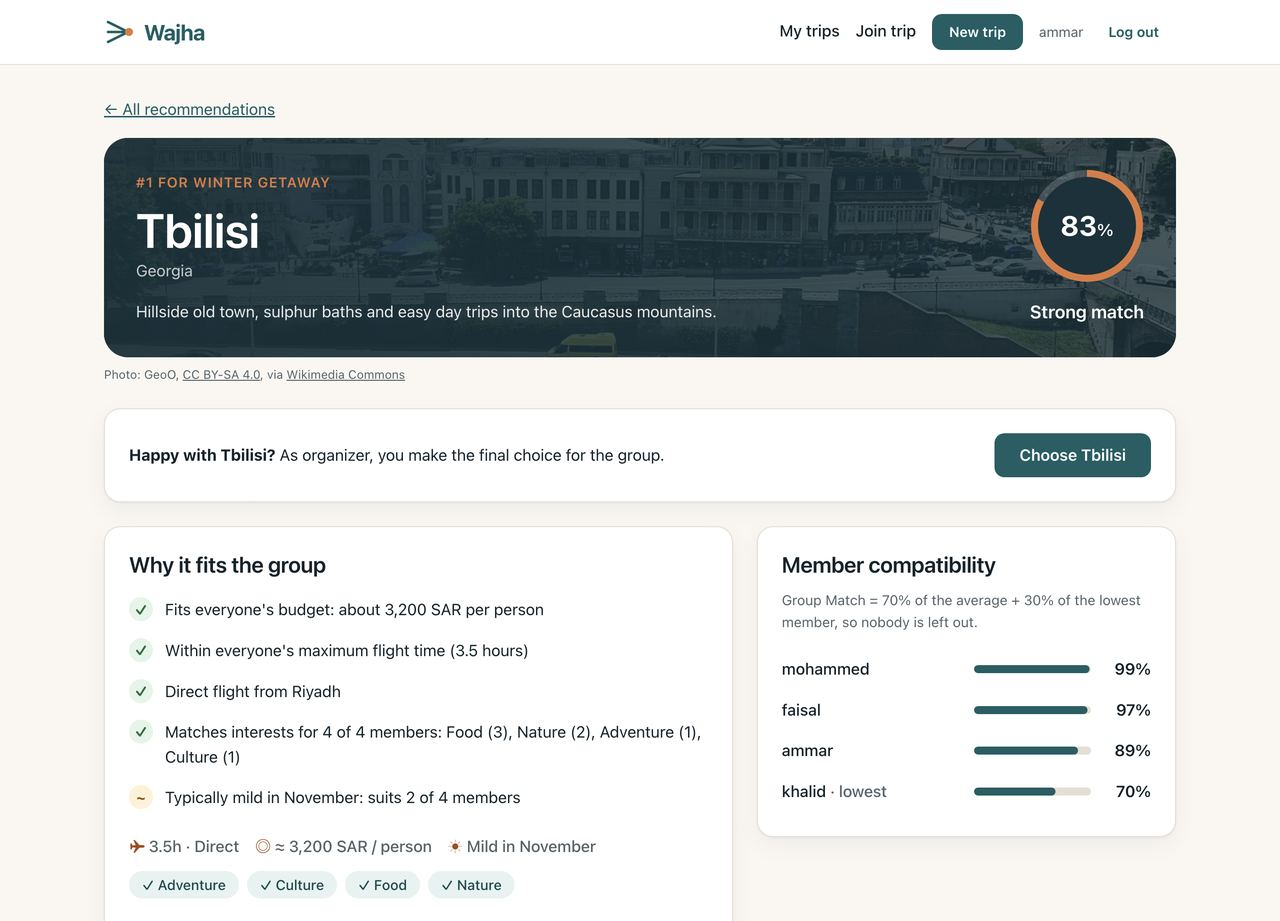
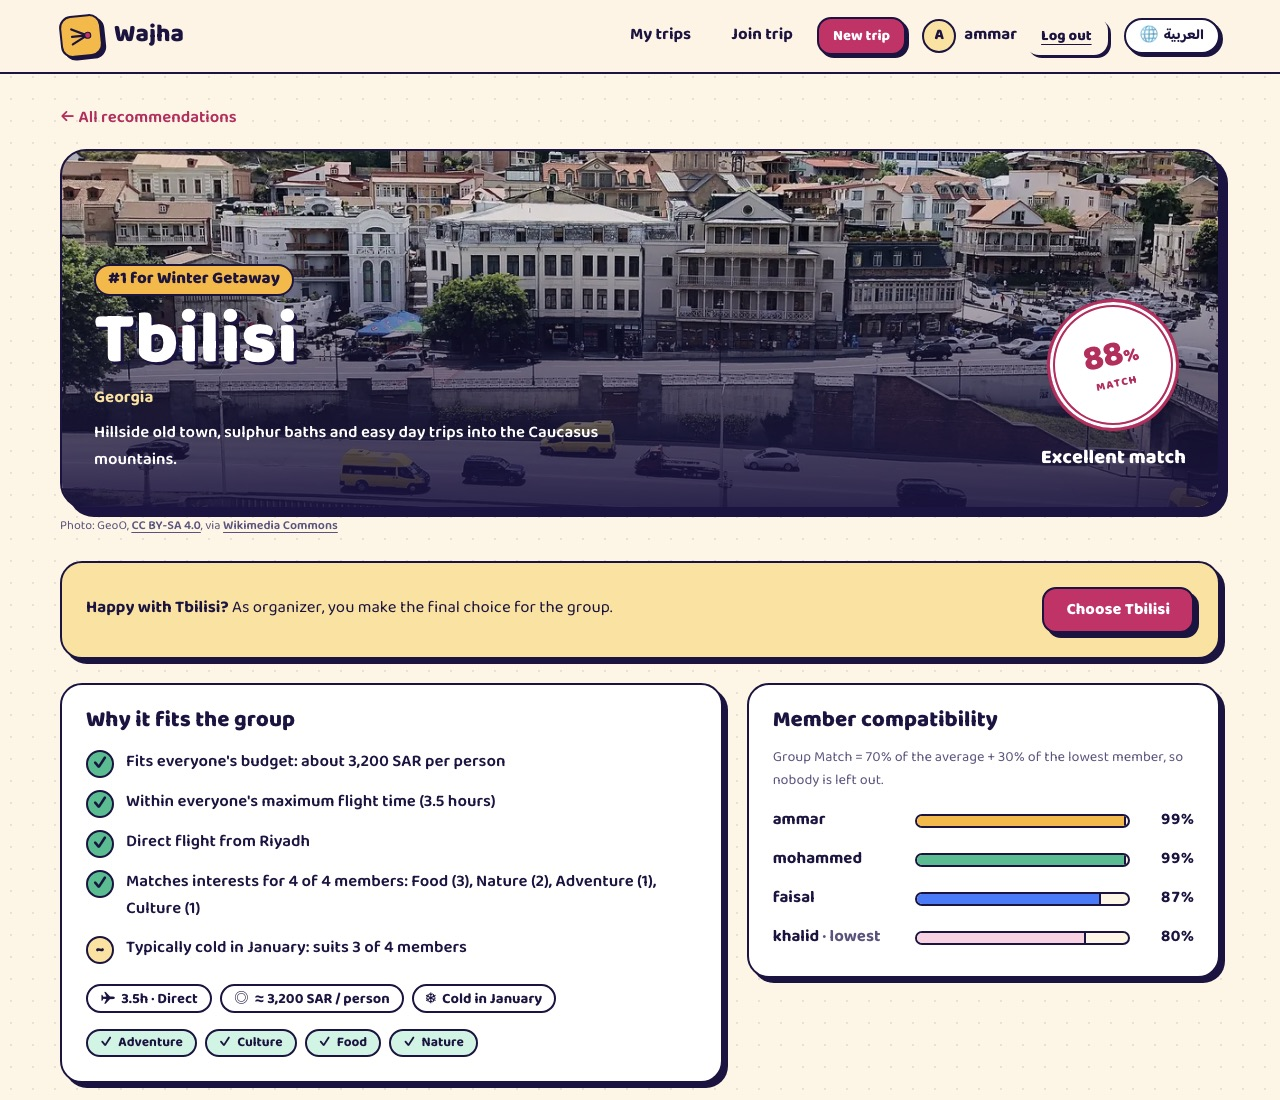
Update verification record, screenshots and README
Re-ran all acceptance scenarios after the redesign and new features (35 of 35
pass), added scenarios for the Arabic version, group vote, shared dates,
search and pagination, verified a fresh checkout (266 tests pass), refreshed
the screenshots and listed the new known limitations.

diff --git a/docs/verification.md b/docs/verification.md
@@ -5,7 +5,7 @@ This record lists the acceptance scenarios for Wajha, what was expected, what ac
 ## How these checks were run
 
 - **Date:** 9 October 2026
-- **Version:** the `main` branch at the time of writing (Python 3.14.7, Django 6.1.2, SQLite)
+- **Version:** the `main` branch at the time of writing (Python 3.14.7, Django 6.1.2, SQLite). All scenarios were run again after the redesign, the Arabic version, the group vote, shared dates and search were added.
 - **Data:** a fresh database loaded with `python manage.py load_demo_data` (fictitious accounts and trips; see the README)
 - **Method:** each scenario was executed through the application's real URLs, forms and views with Django's test client, using the demo accounts. Every run happened inside a database transaction that was rolled back afterwards, so the demo data stayed unchanged.
 - **Manual re-check:** the last column is for a person to repeat the scenario in a browser before submission and initial it.
@@ -27,7 +27,7 @@ This record lists the acceptance scenarios for Wajha, what was expected, what ac
 | V11 | Ammar filters My Trips by each status | All 5 · Planning 3 · Decided 1 · Cancelled 1, newest first | All 5 · Planning 3 · Decided 1 · Cancelled 1 | Pass | |
 | V12 | Sara filters My Trips by Cancelled (she has none) | Empty state "No trips here" with "Show all trips" | Empty state shown | Pass | |
 | V13 | Organizer generates for Spring Break while Khalid hasn't submitted | Refused with an explanation; no recommendations saved | Message shown; 0 saved | Pass | |
-| V14 | Open recommendations for Weekend on a Budget (budgets 1,500 and 1,800 SAR) | "No destination fits everyone", with reasons per destination and no member names | Empty state shown; e.g. "Cairo ≈ 2,150 SAR — Over budget for 2 members"; no names in the reasons | Pass | |
+| V14 | Open recommendations for Weekend on a Budget (budgets 1,500 and 1,800 SAR) | "No destination fits everyone", with reasons per destination and no member names | Empty state shown; e.g. "Cairo ≈ 2,150 SAR — Over budget for 2 members · Flight too long for 1 member"; no names in the reasons | Pass | |
 | V15 | Winter Getaway group summary (**aggregation**) | Average budget (4500 + 4000 + 5000 + 3800) / 4 = **4,325 SAR** · lowest **3,800** · shortest max flight **5 h** · Food 3, Nature 2 | 4,325 · 3,800 · 5 h · Food 3, Nature 2 | Pass | |
 | V16 | My Trips counts per trip (**annotation**) | Winter Getaway "4 of 4 ready" · Spring Break "2 of 3 ready" | Both shown correctly | Pass | |
 | V17 | Winter Getaway: Tbilisi's saved score (hand calculation below) | Rank 1 · Group Match **87.7** · lowest member **79.9** · **3,200 SAR** per person | Rank 1 · 87.7 · 79.9 · 3,200 | Pass | |
@@ -35,13 +35,22 @@ This record lists the acceptance scenarios for Wajha, what was expected, what ac
 | V19 | Organizer removes the waiting member Khalid from Spring Break (deletion with dependent records) | Membership deleted; group becomes 2 of 2 ready and can generate; Khalid gets 404 | Membership gone; can generate; Khalid sees 404 | Pass | |
 | V20 | Cancelled Eid Trip keeps its records | Trip and both memberships still exist; status Cancelled | Cancelled; 2 members kept | Pass | |
 | V21 | Sara edits her preferences on the decided Summer Escape | Refused; budget unchanged | Budget stayed 6,000 | Pass | |
-| V22 | Organizer adds a night to Winter Getaway | Recommendations cleared because costs changed | 0 recommendations left | Pass | |
+| V22 | Organizer adds a night to Winter Getaway (which has recommendations and 3 votes) | Recommendations and their votes cleared because costs changed | 0 recommendations and 0 votes left | Pass | |
 | V23 | Spring Break summary with only 2 submissions (privacy) | Budget figures hidden, with an explanation | Explanation shown; "5,500" not visible | Pass | |
 | V24 | Open a trip that doesn't exist, with `DEBUG=False` | Custom 404 page | 404 with the Wajha "We couldn't find that page" page | Pass | |
-| V25 | **Mobile and desktop layout** | Every page usable at phone width with no horizontal scrolling; navigation folds into a menu | Checked with headless Chrome at 390 px and 1280 px: landing, register/login, My Trips, create/join, Trip Room (planning, ready, decided), preferences, recommendations, explanation, confirmation pages, 404 | Pass | |
-| V26 | **Fresh checkout** | Clone → virtual environment → `pip install -r requirements.txt` → copy `.env.example` → `migrate` → `load_demo_data` → all tests pass | Done from a clean clone after each development phase; latest run passed | Pass | |
+| V25 | **Mobile and desktop layout** | Every page usable at phone width with no horizontal scrolling; navigation folds into a menu | Checked with headless Chrome at 390 px and 1280 px in English and Arabic: landing, register/login, My Trips (search, filters, pagination), create/join, Trip Room (planning, ready, decided), preferences, recommendations with the group vote, explanation, shared dates, confirmation pages, 404. Screenshots in `docs/img/` | Pass | |
+| V26 | **Fresh checkout** | Clone → virtual environment → `pip install -r requirements.txt` → copy `.env.example` → `migrate` → `load_demo_data` → all tests pass | Clean clone into an empty folder, new virtual environment, `pip install`, `.env` from `.env.example` with a new secret key, `migrate` (all 4 trips migrations), `load_demo_data`, `python manage.py test`: **266 tests passed**; translations and fonts present in the clone | Pass | |
+| V27 | **Arabic version:** open `/ar/`, the Trip Room and Weekend on a Budget's recommendations in Arabic | Right-to-left layout, Arabic text, the language switch links to the same page in English, plural forms correct | `dir="rtl"`; "وين نروح؟"; switch links to `/trips/<id>/`; exclusion reason "تتجاوز ميزانية عضوين" (dual form for 2 members) | Pass | |
+| V28 | **Group vote (annotation):** Winter Getaway has 3 demo votes; Ammar votes for Tbilisi | Vote counts per top-3 recommendation [2, 1, 0] → [3, 1, 0]; 4 of 4 voted; Tbilisi leading; no voter names shown | [2, 1, 0] → [3, 1, 0]; 4 of 4; Tbilisi leading; only totals on the page | Pass | |
+| V29 | Vote for 4th place; a non-member votes; a member votes on the decided Summer Escape | Refused with a message; 404 for the non-member; "Voting is closed" | All refused as expected; no vote saved | Pass | |
+| V30 | Organizer regenerates Winter Getaway's recommendations | Old votes are cleared with the old ranking | 5 recommendations regenerated; 0 votes left | Pass | |
+| V31 | **Shared dates:** Spring Break, where all 3 members shared free dates | Current dates (25–30 Mar) suit 2 of 3; best suggestion 27 Mar – 1 Apr, everyone free; members don't see "Use these dates" | 2 of 3; 27 Mar – 1 Apr, everyone free; button only for the organizer | Pass | |
+| V32 | Add free dates with the end before the start, a past start, a range over 90 days and a range ending more than a year ahead | Each refused with a message; nothing saved | All 4 refused; no range saved | Pass | |
+| V33 | Sara (member) tries to apply the suggestion; Ammar (organizer) applies it | 403 for the member; trip moves to 27 Mar – 1 Apr keeping 5 nights | 403; 27 Mar – 1 Apr 2027, 5 nights | Pass | |
+| V34 | **Search** My Trips for "winter", "sarajevo", "سراييفو" (Arabic) and "zzz" | Matching trips only; Arabic city name finds the English record; no results shows an empty state | Winter Getaway; Summer Escape; Summer Escape; "No trips match" with "Clear search" | Pass | |
+| V35 | **Pagination:** Ammar has 11 trips | 9 on page 1, 2 on page 2; invalid page numbers fall back safely | 9 and 2; `?page=abc` shows page 1, `?page=99` the last page | Pass | |
 
-**Result: 26 of 26 scenarios passed.**
+**Result: 35 of 35 scenarios passed.**
 
 ## Hand calculation for V17 (Tbilisi, Winter Getaway)
 
@@ -61,21 +70,25 @@ The trip departs from Riyadh, 14–18 January 2027 (4 nights). January is in the
 
 ## Automated tests
 
-`python manage.py test` runs **206 tests**; all passed on the latest run.
+`python manage.py test` runs **266 tests**; all passed on the latest run.
 
 | File | Tests | What they protect |
 |---|---|---|
 | `trips/tests/test_matching.py` | 32 | Cost, each hard constraint (including limits exactly at the edge), each factor score, group formula, tie-breaks, ranking, all with hand-calculated values |
 | `trips/tests/test_trip_management.py` | 35 | Finalize, cancel, edit and remove member: rules, permissions, locking after a decision, deletion with dependent records |
 | `trips/tests/test_recommendations.py` | 30 | Generation, saved scores matching the engine, invalidation when the group changes, page states, privacy of exclusions |
+| `trips/tests/test_dates.py` | 24 | Shared dates: the pure suggestion function with hand-checked windows, date validation, own-range deletion only, organizer-only apply, recommendations cleared on new dates |
 | `trips/tests/test_preferences.py` | 23 | Preference validation, own-record only, different preferences per trip, readiness rules |
+| `trips/tests/test_voting.py` | 17 | One vote per member, top 3 only, voting closes after a decision, votes cleared with recommendations, annotated counts, ties, page shows totals not names |
 | `trips/tests/test_views.py` | 17 | Create trip validation, access (404/403), My Trips relationship query and member count |
 | `trips/tests/test_join.py` | 15 | Invite code normalisation and every join rule |
 | `trips/tests/test_reporting.py` | 14 | Group summary aggregation, interest vote annotation, status filter and per-trip counts |
+| `trips/tests/test_search.py` | 10 | My Trips search by name and destination (also in Arabic), counts follow the search, escaped empty state, pagination and links that keep the filter |
 | `trips/tests/test_models.py` | 11 | Database constraints: dates, status vs destination, unique membership, invite codes |
 | `destinations/tests.py` | 11 | Catalog loader, catalog constraints, climate periods, bundled photos |
+| `trips/tests/test_i18n.py` | 8 | Arabic version: right-to-left, translated pages, URL prefixes, language switch, Arabic plurals and number formats |
 | `trips/tests/test_pages.py` | 5 | Landing, credits, custom 404 and 403 pages |
-| `trips/tests/test_demo.py` | 5 | Demo data states, repeat runs, protection of real accounts |
+| `trips/tests/test_demo.py` | 6 | Demo data states (including votes and shared dates), repeat runs, protection of real accounts |
 | `accounts/tests.py` | 8 | Registration (hashed password, duplicates, required email), login, logout by POST |
 
 ## Known limitations
@@ -88,3 +101,5 @@ The trip departs from Riyadh, 14–18 January 2027 (4 nights). January is in the
 6. **Custom error pages only appear with `DEBUG=False`.** In development (`DEBUG=True`) Django shows its technical pages instead.
 7. **The 8-member limit relies on a row lock** (`select_for_update`). SQLite ignores row locks, but it only allows one write at a time, so the limit still holds for this local setup.
 8. **User-entered text isn't translated.** The interface and catalog are available in English and Arabic, but trip names and usernames appear exactly as typed in both versions.
+9. **Votes are advisory.** The organizer can choose any current recommendation, including one with fewer votes; the vote shows what the group prefers but doesn't decide.
+10. **Date suggestions only know what members shared.** A member who hasn't added free dates counts as not free, and suggestions don't check flight schedules or prices for specific days (prices remain the illustrative estimates).

diff --git a/README.md b/README.md
@@ -6,6 +6,10 @@ Wajha is a Django web application that helps a group of friends in Saudi Arabia 
 
 ![Recommended destinations](docs/img/recommendations.jpg)
 
+| Trip Room | Group vote | Shared dates | Arabic version |
+|---|---|---|---|
+| ![Trip Room](docs/img/trip-room.jpg) | ![Group vote](docs/img/vote.jpg) | ![Shared dates](docs/img/dates.jpg) | ![Arabic Trip Room](docs/img/arabic.jpg) |
+
 ## The problem and the audience
 
 **Target users:** groups of 2–8 friends departing from Saudi Arabia (Riyadh, Jeddah or Dammam) who are planning an international leisure trip together.
@@ -193,6 +197,7 @@ docs/            ERD, verification record, demo script, market validation, scree
 
 ## Documentation
 
+- [docs/design.md](docs/design.md): roles, user journeys, wireframes and the prioritized task list
 - [docs/erd.md](docs/erd.md): final ERD, constraints, deletion behaviour and design reasoning
 - [docs/verification.md](docs/verification.md): acceptance scenarios, results, test summary, known limitations
 - [docs/demo.md](docs/demo.md): demo script and technical discussion notes
@@ -209,7 +214,7 @@ The full list is in [docs/verification.md](docs/verification.md#known-limitation
 
 ## Credits and acknowledgements
 
-- **AI assistance:** this project was built with significant help from **Claude (Anthropic)**, an AI assistant used for planning, writing and reviewing code, tests and documentation. All work was reviewed, run and verified, and I can explain every part of the implementation.
+- **AI assistance:** this project was built with significant help from **Claude (Anthropic)**, an AI assistant used for planning, writing and reviewing code, tests and documentation, including the "Boarding Pass" redesign, the Arabic translation, the group vote, shared dates and search. All work was reviewed, run and verified, and I can explain every part of the implementation.
 - **Destination photos:** 12 freely licensed photos from Wikimedia Commons (CC BY, CC BY-SA or public domain), resized and converted to WebP. Each author and licence is listed on the in-app **Credits** page (`/credits/`, linked in the footer) and in [destinations/photos.py](destinations/photos.py).
 - **Fonts:** [Baloo Bhaijaan 2](https://github.com/EkType/Baloo2) by The Baloo 2 Project Authors and [JetBrains Mono](https://github.com/JetBrains/JetBrainsMono) by The JetBrains Mono Project Authors, both under the SIL Open Font License 1.1 ([static/fonts/OFL-BalooBhaijaan2.txt](static/fonts/OFL-BalooBhaijaan2.txt), [static/fonts/OFL-JetBrainsMono.txt](static/fonts/OFL-JetBrainsMono.txt)).
 - **Framework:** [Django](https://www.djangoproject.com/) and its documentation.
